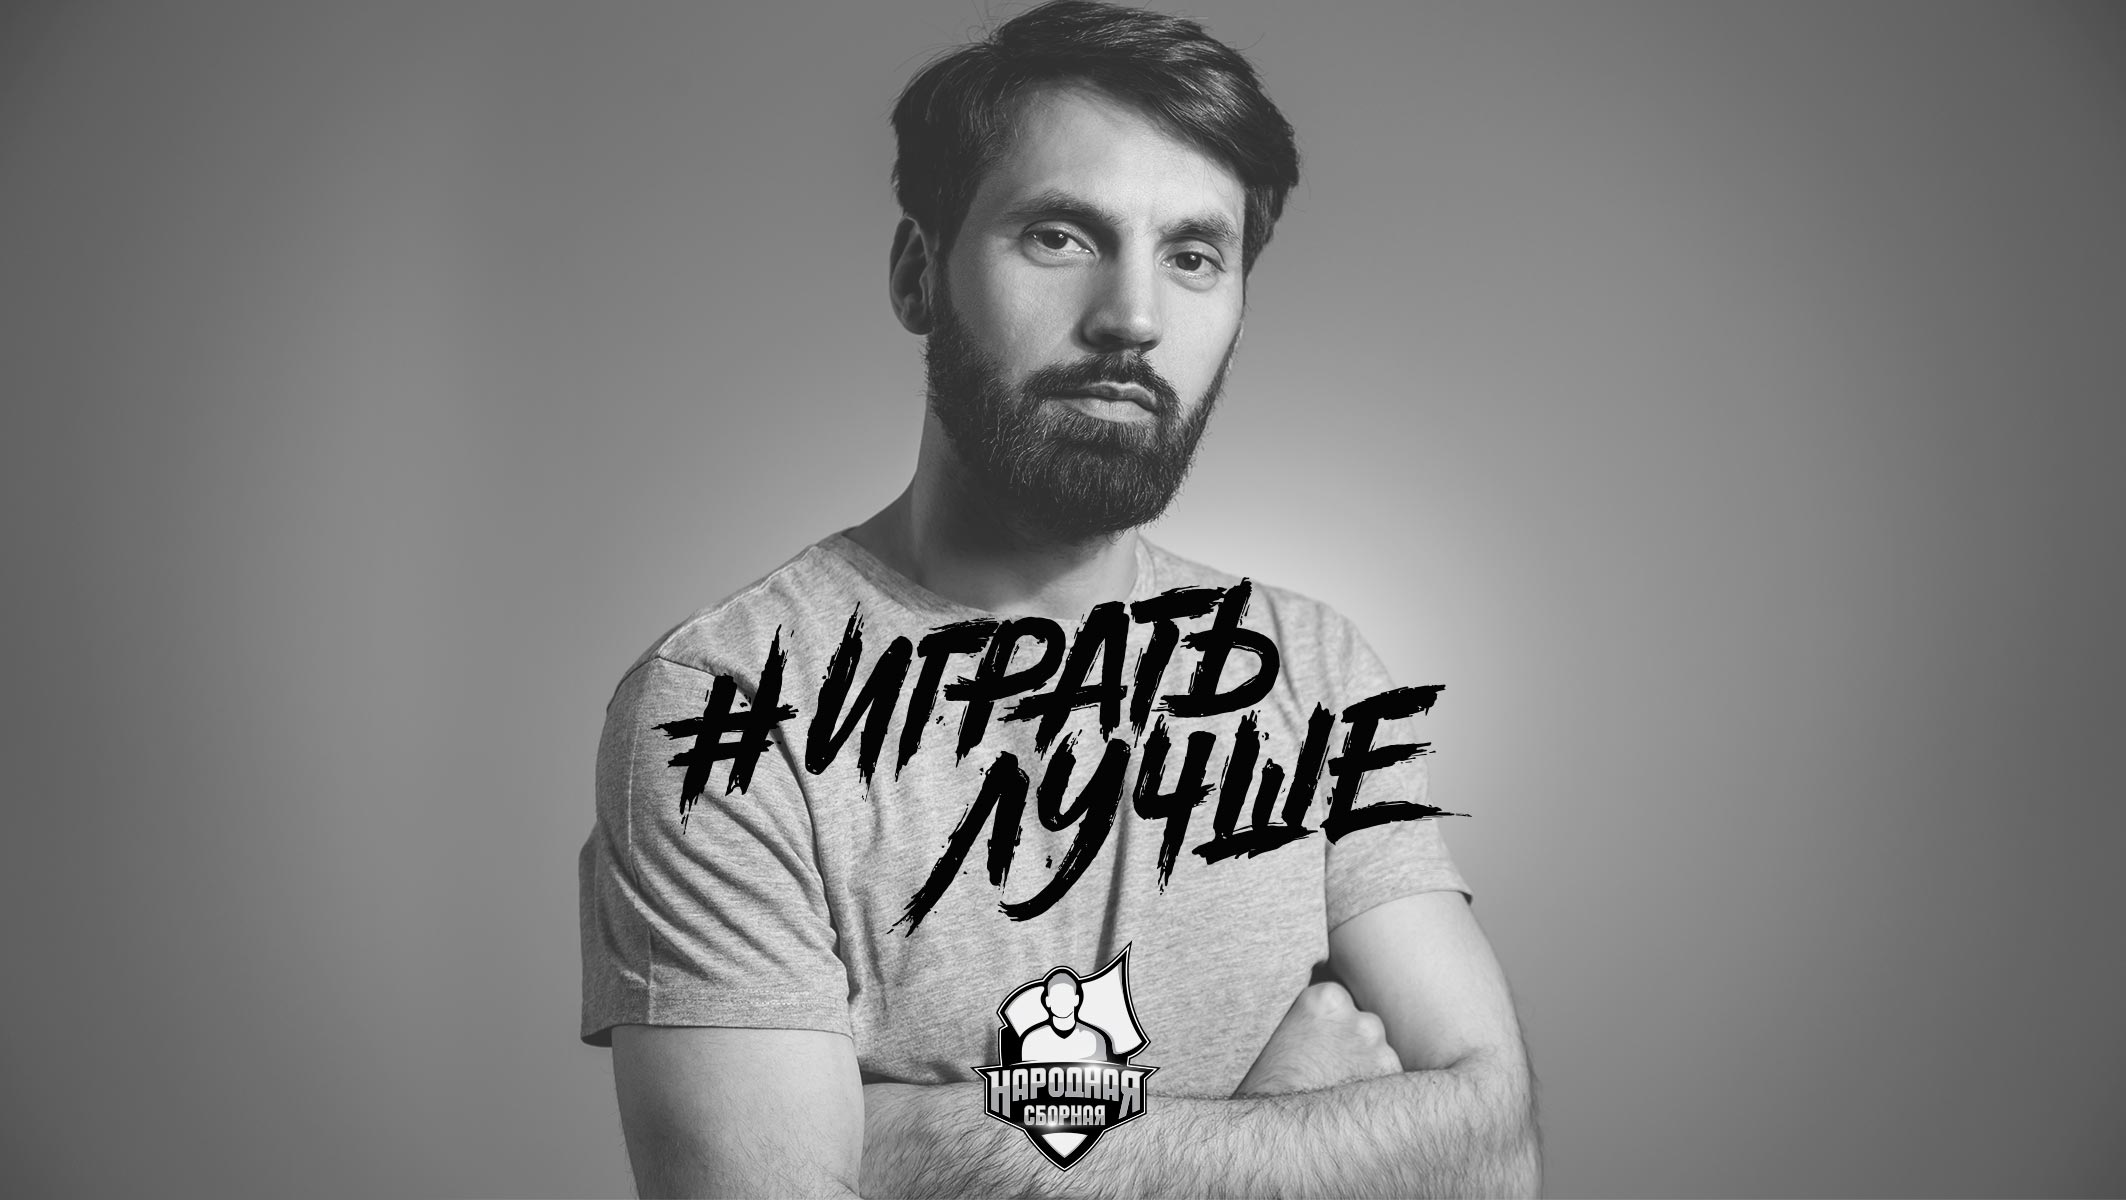
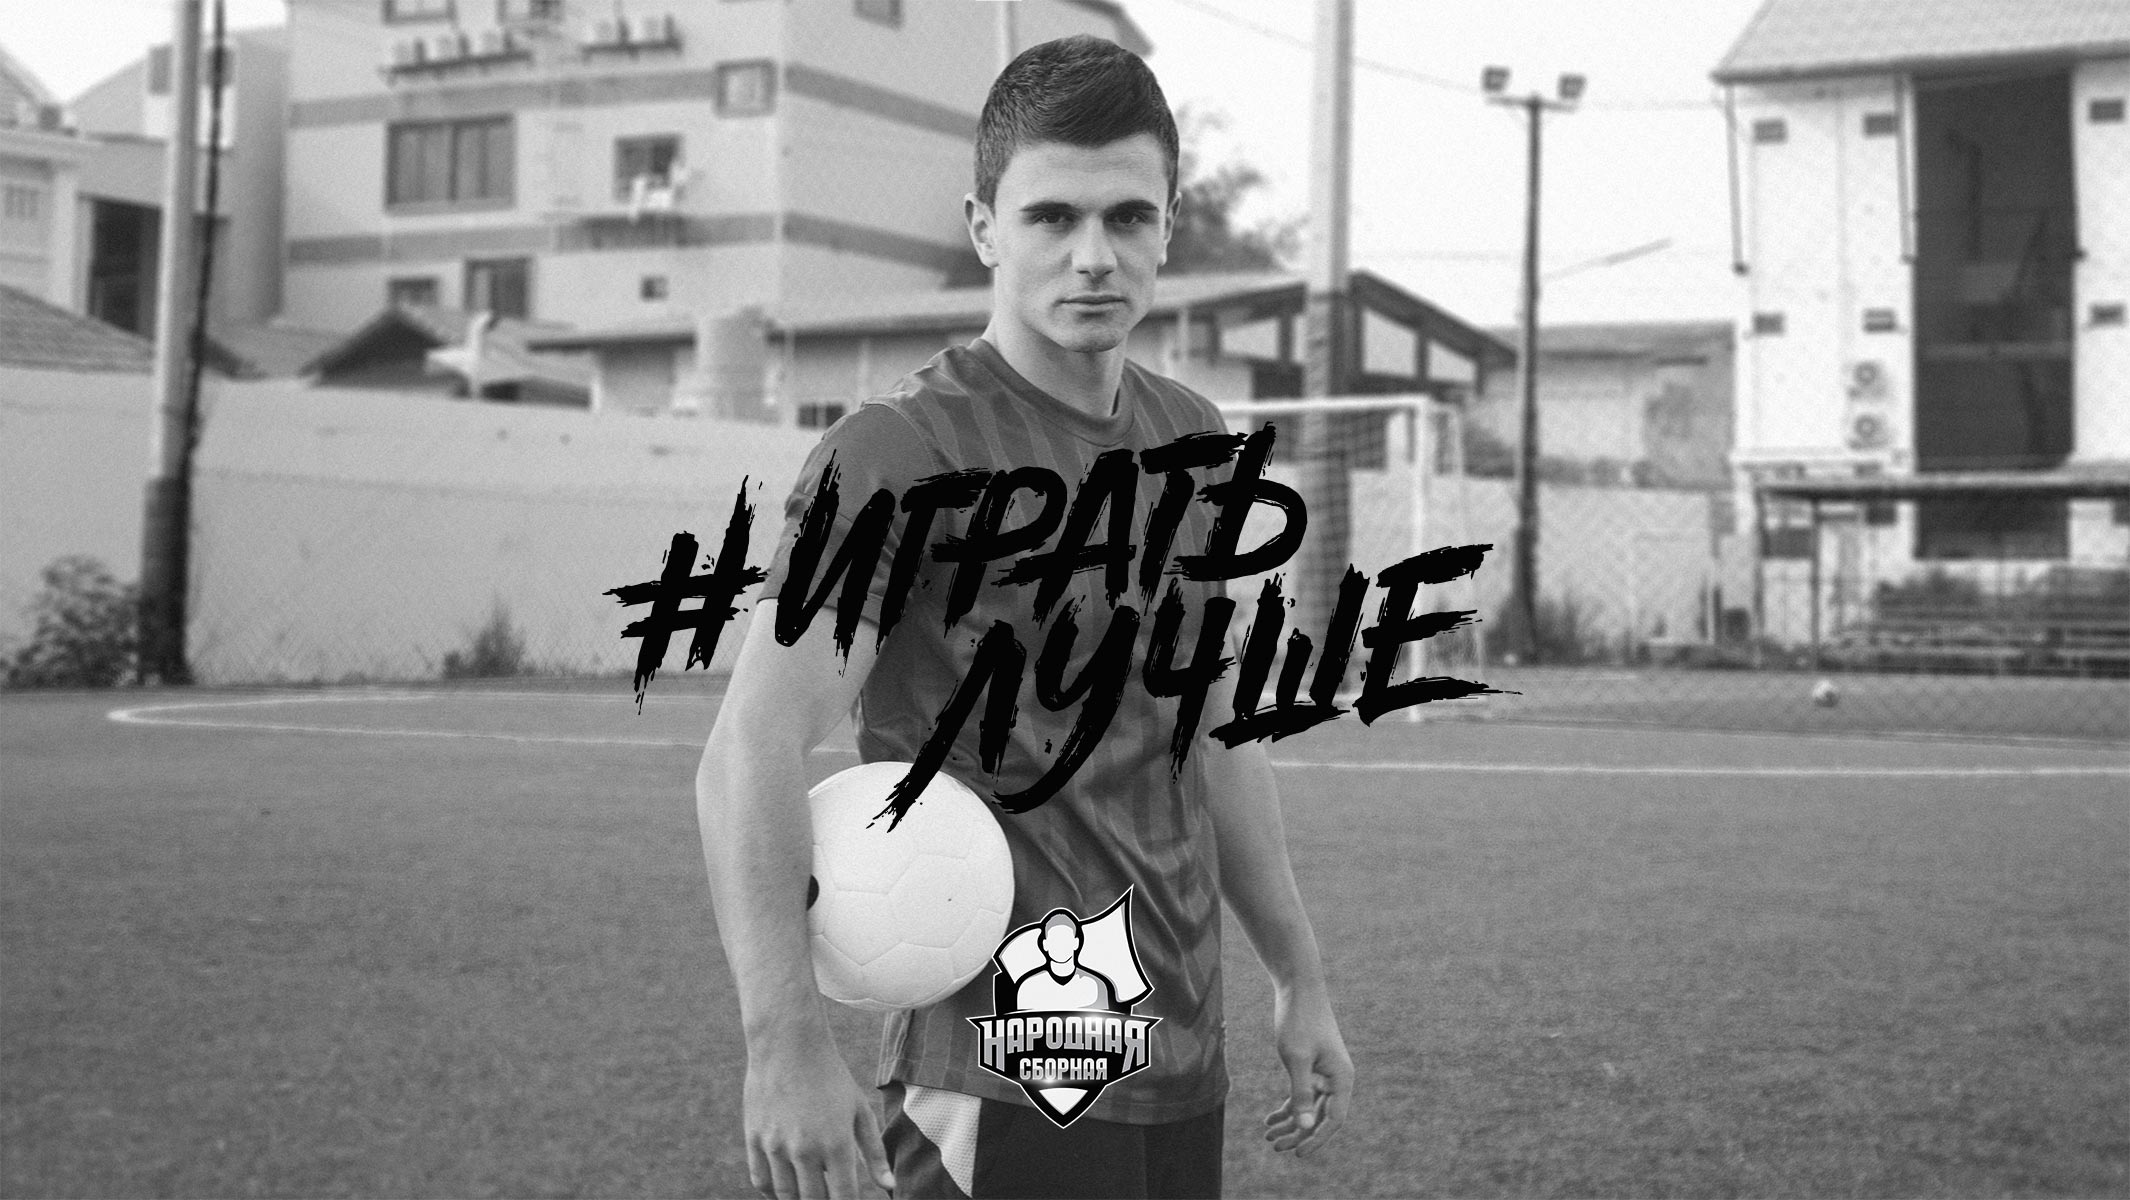
Gallery

diff --git a/src/client/components/screens/gallery/Footer.js b/src/client/components/screens/gallery/Footer.js
@@ -1,0 +1,25 @@
+import React from 'react'
+import { StyleSheet } from 'quantum'
+import FooterLinks from './FooterLinks'
+
+const styles = StyleSheet.create({
+  self: {
+    width: '100%',
+    background: '#222',
[1 lines of base64/hex data omitted]
+    display: 'flex',
+    flexDirection: 'column',
+    justifyContent: 'center',
+  },
+})
+
+const Footer = ({ height }) => (
+  <div
+    style={{ height }}
+    className={styles()}
+  >
+    <FooterLinks />
+  </div>
+)
+
+export default Footer

diff --git a/src/client/components/screens/gallery/icons/VK.js b/src/client/components/screens/gallery/icons/VK.js
@@ -1,0 +1,53 @@
+import React from 'react'
+import { StyleSheet } from 'quantum'
+
+const styles = StyleSheet.create({
+  self: {
+    width: '34px',
+    height: '34px',
+    border: '1px solid #000',
+    borderRadius: '50%',
+    padding: '2px',
+    display: 'inline-flex',
+    alignItems: 'center',
+    justifyContent: 'center',
+    cursor: 'pointer',
+    margin: '0 6px',
+    boxSizing: 'border-box',
+    '&:hover': {
+      borderColor: '#d2a700',
+      '& svg': {
+        fill: '#d2a700',
+      },
+    },
+  },
+})
+
+const VK = () => (
+  <span className={styles()}>
+    <svg
+      width='22px'
+      viewBox="0 0 304.36 304.36"
+    >
+      <g>
+        <path
+          d='M261.945,175.576c10.096,9.857,20.752,19.131,29.807,29.982
+            c4,4.822,7.787,9.798,10.684,15.394c4.105,7.955,0.387,16.709-6.746,17.184l-44.34-0.02c-11.436,0.949-20.559-3.655-28.23-11.474
+            c-6.139-6.253-11.824-12.908-17.727-19.372c-2.42-2.642-4.953-5.128-7.979-7.093c-6.053-3.929-11.307-2.726-14.766,3.587
+            c-3.523,6.421-4.322,13.531-4.668,20.687c-0.475,10.441-3.631,13.186-14.119,13.664c-22.414,1.057-43.686-2.334-63.447-13.641
+            c-17.422-9.968-30.932-24.04-42.691-39.971C34.828,153.482,17.295,119.395,1.537,84.353C-2.01,76.458,0.584,72.22,9.295,72.07
+            c14.465-0.281,28.928-0.261,43.41-0.02c5.879,0.086,9.771,3.458,12.041,9.012c7.826,19.243,17.402,37.551,29.422,54.521
+            c3.201,4.518,6.465,9.036,11.113,12.216c5.142,3.521,9.057,2.354,11.476-3.374c1.535-3.632,2.207-7.544,2.553-11.434
+            c1.146-13.383,1.297-26.743-0.713-40.079c-1.234-8.323-5.922-13.711-14.227-15.286c-4.238-0.803-3.607-2.38-1.555-4.799
+            c3.564-4.172,6.916-6.769,13.598-6.769h50.111c7.889,1.557,9.641,5.101,10.721,13.039l0.043,55.663
+            c-0.086,3.073,1.535,12.192,7.07,14.226c4.43,1.448,7.35-2.096,10.008-4.905c11.998-12.734,20.561-27.783,28.211-43.366
+            c3.395-6.852,6.314-13.968,9.143-21.078c2.096-5.276,5.385-7.872,11.328-7.757l48.229,0.043c1.43,0,2.877,0.021,4.262,0.258
+            c8.127,1.385,10.354,4.881,7.844,12.817c-3.955,12.451-11.65,22.827-19.174,33.251c-8.043,11.129-16.645,21.877-24.621,33.072
+            C252.26,161.544,252.842,166.697,261.945,175.576L261.945,175.576z M261.945,175.576'
+        />
+      </g>
+    </svg>
+  </span>
+)
+
+export default VK

diff --git a/src/client/components/screens/gallery/icons/Instagram.js b/src/client/components/screens/gallery/icons/Instagram.js
@@ -1,0 +1,50 @@
+import React from 'react'
+import { StyleSheet } from 'quantum'
+
+const styles = StyleSheet.create({
+  self: {
+    width: '34px',
+    height: '34px',
+    border: '1px solid #000',
+    borderRadius: '50%',
+    padding: '2px',
+    display: 'inline-flex',
+    alignItems: 'center',
+    justifyContent: 'center',
+    cursor: 'pointer',
+    margin: '0 6px',
+    boxSizing: 'border-box',
+    '&:hover': {
+      borderColor: '#d2a700',
+      '& svg': {
+        fill: '#d2a700',
+      },
+    },
+  },
+})
+
+const Instagram = () => (
+  <span className={styles()}>
+    <svg
+      width='20px'
+      viewBox="0 0 490 490"
+    >
+      <g>
+        <path d="M245,135c-60.654,0-110,49.346-110,110s49.346,110,110,110s110-49.346,110-110S305.654,135,245,135z M245,335
+				c-49.626,0-90-40.374-90-90c0-49.626,40.374-90,90-90c49.626,0,90,40.374,90,90C335,294.626,294.626,335,245,335z"/>
+			<path d="M355,90c-19.299,0-35,15.701-35,35s15.701,35,35,35s35-15.701,35-35S374.299,90,355,90z M355,140
+				c-8.272,0-15-6.729-15-15s6.728-15,15-15c8.272,0,15,6.729,15,15S363.272,140,355,140z"/>
+			<path d="M245,175c-38.598,0-70,31.402-70,70c0,38.598,31.402,70,70,70c38.598,0,70-31.402,70-70C315,206.402,283.598,175,245,175
+				z M245,295c-27.57,0-50-22.43-50-50s22.43-50,50-50s50,22.43,50,50S272.57,295,245,295z"/>
+			<path d="M340,45H150C94.86,45,50,89.86,50,145v195c0,55.14,44.86,100,100,100h190c55.141,0,100-44.86,100-100V145
+				C440,89.86,395.141,45,340,45z M420,340c0,44.112-35.888,80-80,80H150c-44.112,0-80-35.888-80-80V145c0-44.112,35.888-80,80-80
+				h190c44.112,0,80,35.888,80,80V340z"/>
+			<path d="M390,0H100C44.86,0,0,44.86,0,100v290c0,55.14,44.86,100,100,100h290c55.141,0,100-44.86,100-100V100
+				C490,44.86,445.141,0,390,0z M470,390c0,44.112-35.888,80-80,80H100c-44.112,0-80-35.888-80-80V100c0-44.112,35.888-80,80-80h290
+				c44.112,0,80,35.888,80,80V390z"/>
+      </g>
+    </svg>
+  </span>
+)
+
+export default Instagram

diff --git a/src/client/components/screens/gallery/Gallery.js b/src/client/components/screens/gallery/Gallery.js
@@ -1,6 +1,7 @@
 import React, { Component } from 'react'
 import { StyleSheet } from 'quantum'
 import Images from './Images'
+import Footer from './Footer'
 
 const styles = StyleSheet.create({
   self: {
@@ -8,6 +9,8 @@ const styles = StyleSheet.create({
     width: '100%',
     height: '100%',
     overflow: 'hidden',
+    display: 'flex',
+    flexDirection: 'column',
   },
 })
 
@@ -16,8 +19,10 @@ class Gallery extends Component {
     interval: 5000,
     images: [
       '/images/gallery1.jpg',
-      '/images/gallery1.jpg',
-    ]
+      '/images/gallery2.jpg',
+      '/images/gallery3.jpg',
+    ],
+    footerHeight: 150,
   }
 
   constructor(props, context) {
@@ -62,16 +67,19 @@ class Gallery extends Component {
   }
 
   render() {
-    const { width, height, images } = this.props
+    const { width, height, images, footerHeight } = this.props
     const { active } = this.state
 
     return (
       <div style={{ width, height }} className={styles()}>
         <Images
           width={width}
-          height={height}
+          height={height - footerHeight}
           images={images}
           active={active}
+        />
+        <Footer
+          height={footerHeight}
         />
       </div>
     )

diff --git a/src/client/components/screens/gallery/icons/Fb.js b/src/client/components/screens/gallery/icons/Fb.js
@@ -1,0 +1,43 @@
+import React from 'react'
+import { StyleSheet } from 'quantum'
+
+const styles = StyleSheet.create({
+  self: {
+    width: '34px',
+    height: '34px',
+    border: '1px solid #000',
+    borderRadius: '50%',
+    padding: '2px',
+    display: 'inline-flex',
+    alignItems: 'center',
+    justifyContent: 'center',
+    cursor: 'pointer',
+    margin: '0 6px',
+    boxSizing: 'border-box',
+    '&:hover': {
+      borderColor: '#d2a700',
+      '& svg': {
+        fill: '#d2a700',
+      },
+    },
+  },
+})
+
+const Fb = () => (
+  <span className={styles()}>
+    <svg
+      width='22px'
+      viewBox="0 0 430.113 430.114"
+    >
+      <g>
+        <path
+          d='M158.081,83.3c0,10.839,0,59.218,0,59.218h-43.385v72.412h43.385v215.183h89.122V214.936h59.805
+            c0,0,5.601-34.721,8.316-72.685c-7.784,0-67.784,0-67.784,0s0-42.127,0-49.511c0-7.4,9.717-17.354,19.321-17.354
+            c9.586,0,29.818,0,48.557,0c0-9.859,0-43.924,0-75.385c-25.016,0-53.476,0-66.021,0C155.878-0.004,158.081,72.48,158.081,83.3z'
+        />
+      </g>
+    </svg>
+  </span>
+)
+
+export default Fb

diff --git a/src/client/components/screens/gallery/FooterLinks.js b/src/client/components/screens/gallery/FooterLinks.js
@@ -1,0 +1,37 @@
+import React from 'react'
+import { StyleSheet } from 'quantum'
+import VK from './icons/VK'
+import Fb from './icons/Fb'
+import Instagram from './icons/Instagram'
+import Youtube from './icons/Youtube'
+
+const styles = StyleSheet.create({
+  self: {
+    width: '100%',
+    padding: ' 10px 0',
+    display: 'flex',
+    flexDirection: 'row',
+    justifyContent: 'center',
+    borderTop: '1px solid #000',
+    borderBottom: '1px solid #000',
+  },
+})
+
+const FooterLinks = () => (
+  <div className={styles()}>
+    <a href='https://vk.com/club124295446' target='_blank'>
+      <VK />
+    </a>
+    <a href='https://www.facebook.com/narodnayasbornaya' target='_blank'>
+      <Fb />
+    </a>
+    <a href='https://www.instagram.com/narodnaya_sbornaya/' target='_blank'>
+      <Instagram />
+    </a>
+    <a href='https://www.youtube.com/channel/UCrZakqou5TL5JgHYWuguQKg' target='_blank'>
+      <Youtube />
+    </a>
+  </div>
+)
+
+export default FooterLinks

diff --git a/src/client/components/screens/gallery/icons/Youtube.js b/src/client/components/screens/gallery/icons/Youtube.js
@@ -1,0 +1,41 @@
+import React from 'react'
+import { StyleSheet } from 'quantum'
+
+const styles = StyleSheet.create({
+  self: {
+    width: '34px',
+    height: '34px',
+    border: '1px solid #000',
+    borderRadius: '50%',
+    padding: '2px',
+    display: 'inline-flex',
+    alignItems: 'center',
+    justifyContent: 'center',
+    cursor: 'pointer',
+    margin: '0 6px',
+    boxSizing: 'border-box',
+    '&:hover': {
+      borderColor: '#d2a700',
+      '& svg': {
+        fill: '#d2a700',
+      },
+    },
+  },
+})
+
+const Youtube = () => (
+  <span className={styles()}>
+    <svg
+      width='20px'
+      viewBox="0 0 90 90"
+    >
+      <g>
+        <path d="M90,26.958C90,19.525,83.979,13.5,76.55,13.5h-63.1C6.021,13.5,0,19.525,0,26.958v36.084
+                C0,70.475,6.021,76.5,13.45,76.5h63.1C83.979,76.5,90,70.475,90,63.042V26.958z M36,60.225V26.33l25.702,16.947L36,60.225z"
+        />
+      </g>
+    </svg>
+  </span>
+)
+
+export default Youtube
